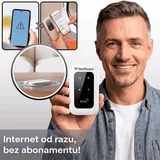
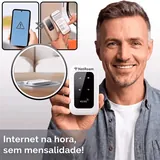
P242 NetRoam BR: localise the hero animation, drop the star strip
The hero burns its caption into all 58 frames. I mirrored it from PL as
"text-free" and the review sheet caught the Polish still sitting on the most
prominent image of the page. Fixed the way the PL build made it: static base
regenerated with "Internet na hora, sem mensalidade!", then the source's own
animated inset composited back through a feathered circular mask at
(137,251) r=85. Measured before compositing -- the caption zone deviates by
>25 levels on 9 of 58,800 px across frames, so it is static; the inset is the
only real motion. sp_hero_thumb rebuilt from frame 0 of the new animation.

sp_hero.webp needed no change: it is a different asset (a fully-moving room
video with a fixed device pair) and carries no text.

Also removed the 5-star strip from the review cards, where it sat beside the
ReclameAQUI wordmark. blocks/reclameaqui_energycut_br.html states the rule:
ReclameAQUI scores 0-10, never stars. A score chip would need a real rating,
which is a business fact we do not have, so the wordmark stands alone. The
hero strip keeps its stars -- it reads "Excelente 4,8" with no ReclameAQUI
mark beside it.

Changed region(s): [[0.25, 0.8438, 0.5312, 0.9688], [0.0, 0.9062, 0.25, 0.9688], [0.3125, 0.5625, 0.3438, 0.5938]]

diff --git a/netroam-br/sp.css b/netroam-br/sp.css
@@ -1358,7 +1358,7 @@ display:block;
 						    max-width: unset;
 						    flex: 1;
       order: 0;
-    }@media only screen and (min-width: 600px) and (max-width: 1024px){:where(#netroam-br-sp-root) .el-758250 .el-929801.container{ display:inherit; }}@media only screen and (min-width: 0px) and (max-width: 600px){:where(#netroam-br-sp-root) .el-758250 .el-929801.container{ display:inherit; }}:where(#netroam-br-sp-root) .el-929801 .el-392528{ display:inherit;margin:3px 0px 0px 0px; }:where(#netroam-br-sp-root) .el-929801 .el-392528{ align-items:flex-start; }@media only screen and (min-width: 600px) and (max-width: 1024px){:where(#netroam-br-sp-root) .el-929801 .el-392528{ display:inherit; }}@media only screen and (min-width: 0px) and (max-width: 600px){:where(#netroam-br-sp-root) .el-929801 .el-392528{ display:inherit; }}:where(#netroam-br-sp-root) .el-929801 .el-392528 img{ box-shadow:none;object-fit:scale-down; }:where(#netroam-br-sp-root) .el-929801 .el-392528 img{ width:22px;height:22px; }:where(#netroam-br-sp-root) .el-929801 .el-362073{ width:100%;display:flex; }@media only screen and (min-width: 600px) and (max-width: 1024px){:where(#netroam-br-sp-root) .el-929801 .el-362073{ width:100%;display:flex; }}@media only screen and (min-width: 0px) and (max-width: 600px){:where(#netroam-br-sp-root) .el-929801 .el-362073{ width:100%;display:flex; }}:where(#netroam-br-sp-root) .el-929801 .el-362073 .paragraph{ display:inherit;font-family:Poppins;font-size:20px;text-align:left;line-height:1.2;margin:0px 0px 0px 0px;padding:0px 0px 5px 0px;text-shadow:transparent 0px 0px 0px ; }@media only screen and (min-width: 600px) and (max-width: 1024px){:where(#netroam-br-sp-root) .el-929801 .el-362073 .paragraph{ display:inherit; }}@media only screen and (min-width: 0px) and (max-width: 600px){:where(#netroam-br-sp-root) .el-929801 .el-362073 .paragraph{ display:inherit; }}:where(#netroam-br-sp-root) .el-758250 .el-649265{ width:100%;display:flex; }@media only screen and (min-width: 600px) and (max-width: 1024px){:where(#netroam-br-sp-root) .el-758250 .el-649265{ width:100%;display:flex; }}@media only screen and (min-width: 0px) and (max-width: 600px){:where(#netroam-br-sp-root) .el-758250 .el-649265{ width:100%;display:flex; }}:where(#netroam-br-sp-root) .el-758250 .el-649265 .paragraph{ display:inherit;color:#B6B6B6;font-family:Poppins;font-size:8px;text-align:left;line-height:1;margin:0px 0px 0px 0px;padding:10px 10px 10px 10px;text-shadow:transparent 0px 0px 0px ; }@media only screen and (min-width: 600px) and (max-width: 1024px){:where(#netroam-br-sp-root) .el-758250 .el-649265 .paragraph{ display:inherit; }}@media only screen and (min-width: 0px) and (max-width: 600px){:where(#netroam-br-sp-root) .el-758250 .el-649265 .paragraph{ display:inherit;text-align:right; }}:where(#netroam-br-sp-root) .el-758250 .el-258122{ display:inherit;margin:0px 0px 0px 0px; }:where(#netroam-br-sp-root) .el-758250 .el-258122{ align-items:center; }@media only screen and (min-width: 600px) and (max-width: 1024px){:where(#netroam-br-sp-root) .el-758250 .el-258122{ display:inherit; }}@media only screen and (min-width: 0px) and (max-width: 600px){:where(#netroam-br-sp-root) .el-758250 .el-258122{ display:inherit; }}:where(#netroam-br-sp-root) .el-758250 .el-258122 img{ box-shadow:none;object-fit:scale-down; }:where(#netroam-br-sp-root) .el-758250 .el-258122 img{ width:100%;height:23px; }:where(#netroam-br-sp-root) .el-758250 .el-898055{ display:inherit;margin:0px 0px 0px 0px; }:where(#netroam-br-sp-root) .el-758250 .el-898055{ align-items:flex-start; }@media only screen and (min-width: 600px) and (max-width: 1024px){:where(#netroam-br-sp-root) .el-758250 .el-898055{ display:inherit; }}@media only screen and (min-width: 0px) and (max-width: 600px){:where(#netroam-br-sp-root) .el-758250 .el-898055{ display:inherit; }}:where(#netroam-br-sp-root) .el-758250 .el-898055 img{ box-shadow:none;object-fit:scale-down; }:where(#netroam-br-sp-root) .el-758250 .el-898055 img{ width:100%;height:15px; }:where(#netroam-br-sp-root) .el-802359 .el-21962{ width:100%;display:flex; }@media only screen and (min-width: 600px) and (max-width: 1024px){:where(#netroam-br-sp-root) .el-802359 .el-21962{ width:100%;display:flex; }}@media only screen and (min-width: 0px) and (max-width: 600px){:where(#netroam-br-sp-root) .el-802359 .el-21962{ width:100%;display:flex; }}:where(#netroam-br-sp-root) .el-802359 .el-21962 .paragraph{ display:inherit;color:#000000;font-family:Poppins;font-size:16px;text-align:left;line-height:1.5;margin:10px 5px 0px 5px;padding:0px 0px 0px 0px;text-shadow:transparent 0px 0px 0px ; }@media only screen and (min-width: 600px) and (max-width: 1024px){:where(#netroam-br-sp-root) .el-802359 .el-21962 .paragraph{ display:inherit; }}@media only screen and (min-width: 0px) and (max-width: 600px){:where(#netroam-br-sp-root) .el-802359 .el-21962 .paragraph{ display:inherit;font-size:14px; }}:where(#netroam-br-sp-root) .el-48256 .el-11605.container{ display:inherit;font-size:18px;text-align:center;font-weight:400;font-style:normal;border-top:0px solid ;border-left:0px solid ;border-right:0px solid ;border-bottom:0px solid ;border-radius:10px 10px 10px 10px;margin:0px 0px 0px 0px;padding:20px 10px 20px 10px;box-shadow:#0000001C 6.123233995736766e-17px 1px 5px 3px ; }:where(#netroam-br-sp-root) .el-48256 .el-11605.container{ align-items:start; }:where(#netroam-br-sp-root) .el-48256 .el-11605.container{ flex-direction: column; }:where(#netroam-br-sp-root) .el-48256 .el-11605.container  > .container-box:nth-child(1){
+    }@media only screen and (min-width: 600px) and (max-width: 1024px){:where(#netroam-br-sp-root) .el-758250 .el-929801.container{ display:inherit; }}@media only screen and (min-width: 0px) and (max-width: 600px){:where(#netroam-br-sp-root) .el-758250 .el-929801.container{ display:inherit; }}:where(#netroam-br-sp-root) .el-929801 .el-392528{ display:inherit;margin:3px 0px 0px 0px; }:where(#netroam-br-sp-root) .el-929801 .el-392528{ align-items:flex-start; }@media only screen and (min-width: 600px) and (max-width: 1024px){:where(#netroam-br-sp-root) .el-929801 .el-392528{ display:inherit; }}@media only screen and (min-width: 0px) and (max-width: 600px){:where(#netroam-br-sp-root) .el-929801 .el-392528{ display:inherit; }}:where(#netroam-br-sp-root) .el-929801 .el-392528 img{ box-shadow:none;object-fit:scale-down; }:where(#netroam-br-sp-root) .el-929801 .el-392528 img{ width:22px;height:22px; }:where(#netroam-br-sp-root) .el-929801 .el-362073{ width:100%;display:flex; }@media only screen and (min-width: 600px) and (max-width: 1024px){:where(#netroam-br-sp-root) .el-929801 .el-362073{ width:100%;display:flex; }}@media only screen and (min-width: 0px) and (max-width: 600px){:where(#netroam-br-sp-root) .el-929801 .el-362073{ width:100%;display:flex; }}:where(#netroam-br-sp-root) .el-929801 .el-362073 .paragraph{ display:inherit;font-family:Poppins;font-size:20px;text-align:left;line-height:1.2;margin:0px 0px 0px 0px;padding:0px 0px 5px 0px;text-shadow:transparent 0px 0px 0px ; }@media only screen and (min-width: 600px) and (max-width: 1024px){:where(#netroam-br-sp-root) .el-929801 .el-362073 .paragraph{ display:inherit; }}@media only screen and (min-width: 0px) and (max-width: 600px){:where(#netroam-br-sp-root) .el-929801 .el-362073 .paragraph{ display:inherit; }}:where(#netroam-br-sp-root) .el-758250 .el-649265{ width:100%;display:flex; }@media only screen and (min-width: 600px) and (max-width: 1024px){:where(#netroam-br-sp-root) .el-758250 .el-649265{ width:100%;display:flex; }}@media only screen and (min-width: 0px) and (max-width: 600px){:where(#netroam-br-sp-root) .el-758250 .el-649265{ width:100%;display:flex; }}:where(#netroam-br-sp-root) .el-758250 .el-649265 .paragraph{ display:inherit;color:#B6B6B6;font-family:Poppins;font-size:8px;text-align:left;line-height:1;margin:0px 0px 0px 0px;padding:10px 10px 10px 10px;text-shadow:transparent 0px 0px 0px ; }@media only screen and (min-width: 600px) and (max-width: 1024px){:where(#netroam-br-sp-root) .el-758250 .el-649265 .paragraph{ display:inherit; }}@media only screen and (min-width: 0px) and (max-width: 600px){:where(#netroam-br-sp-root) .el-758250 .el-649265 .paragraph{ display:inherit;text-align:right; }}:where(#netroam-br-sp-root) .el-758250 .el-258122{ display:inherit;margin:0px 0px 0px 0px; }:where(#netroam-br-sp-root) .el-758250 .el-258122{ align-items:center; }@media only screen and (min-width: 600px) and (max-width: 1024px){:where(#netroam-br-sp-root) .el-758250 .el-258122{ display:inherit; }}@media only screen and (min-width: 0px) and (max-width: 600px){:where(#netroam-br-sp-root) .el-758250 .el-258122{ display:inherit; }}:where(#netroam-br-sp-root) .el-758250 .el-258122 img{ box-shadow:none;object-fit:scale-down; }:where(#netroam-br-sp-root) .el-758250 .el-258122 img{ width:100%;height:23px; }:where(#netroam-br-sp-root) .el-802359 .el-21962{ width:100%;display:flex; }@media only screen and (min-width: 600px) and (max-width: 1024px){:where(#netroam-br-sp-root) .el-802359 .el-21962{ width:100%;display:flex; }}@media only screen and (min-width: 0px) and (max-width: 600px){:where(#netroam-br-sp-root) .el-802359 .el-21962{ width:100%;display:flex; }}:where(#netroam-br-sp-root) .el-802359 .el-21962 .paragraph{ display:inherit;color:#000000;font-family:Poppins;font-size:16px;text-align:left;line-height:1.5;margin:10px 5px 0px 5px;padding:0px 0px 0px 0px;text-shadow:transparent 0px 0px 0px ; }@media only screen and (min-width: 600px) and (max-width: 1024px){:where(#netroam-br-sp-root) .el-802359 .el-21962 .paragraph{ display:inherit; }}@media only screen and (min-width: 0px) and (max-width: 600px){:where(#netroam-br-sp-root) .el-802359 .el-21962 .paragraph{ display:inherit;font-size:14px; }}:where(#netroam-br-sp-root) .el-48256 .el-11605.container{ display:inherit;font-size:18px;text-align:center;font-weight:400;font-style:normal;border-top:0px solid ;border-left:0px solid ;border-right:0px solid ;border-bottom:0px solid ;border-radius:10px 10px 10px 10px;margin:0px 0px 0px 0px;padding:20px 10px 20px 10px;box-shadow:#0000001C 6.123233995736766e-17px 1px 5px 3px ; }:where(#netroam-br-sp-root) .el-48256 .el-11605.container{ align-items:start; }:where(#netroam-br-sp-root) .el-48256 .el-11605.container{ flex-direction: column; }:where(#netroam-br-sp-root) .el-48256 .el-11605.container  > .container-box:nth-child(1){
       width: 100%;
               min-width: 100%;
               max-width: 100%;
@@ -1406,7 +1406,7 @@ display:block;
 						    max-width: unset;
 						    flex: 1;
       order: 0;
-    }@media only screen and (min-width: 600px) and (max-width: 1024px){:where(#netroam-br-sp-root) .el-143072 .el-998820.container{ display:inherit; }}@media only screen and (min-width: 0px) and (max-width: 600px){:where(#netroam-br-sp-root) .el-143072 .el-998820.container{ display:inherit; }}:where(#netroam-br-sp-root) .el-998820 .el-629478{ display:inherit;margin:3px 0px 0px 0px; }:where(#netroam-br-sp-root) .el-998820 .el-629478{ align-items:flex-start; }@media only screen and (min-width: 600px) and (max-width: 1024px){:where(#netroam-br-sp-root) .el-998820 .el-629478{ display:inherit; }}@media only screen and (min-width: 0px) and (max-width: 600px){:where(#netroam-br-sp-root) .el-998820 .el-629478{ display:inherit; }}:where(#netroam-br-sp-root) .el-998820 .el-629478 img{ box-shadow:none;object-fit:scale-down; }:where(#netroam-br-sp-root) .el-998820 .el-629478 img{ width:22px;height:22px; }:where(#netroam-br-sp-root) .el-998820 .el-106640{ width:100%;display:flex; }@media only screen and (min-width: 600px) and (max-width: 1024px){:where(#netroam-br-sp-root) .el-998820 .el-106640{ width:100%;display:flex; }}@media only screen and (min-width: 0px) and (max-width: 600px){:where(#netroam-br-sp-root) .el-998820 .el-106640{ width:100%;display:flex; }}:where(#netroam-br-sp-root) .el-998820 .el-106640 .paragraph{ display:inherit;font-family:Poppins;font-size:20px;text-align:left;line-height:1.2;margin:0px 0px 0px 0px;padding:0px 0px 5px 0px;text-shadow:transparent 0px 0px 0px ; }@media only screen and (min-width: 600px) and (max-width: 1024px){:where(#netroam-br-sp-root) .el-998820 .el-106640 .paragraph{ display:inherit; }}@media only screen and (min-width: 0px) and (max-width: 600px){:where(#netroam-br-sp-root) .el-998820 .el-106640 .paragraph{ display:inherit; }}:where(#netroam-br-sp-root) .el-143072 .el-98258{ width:100%;display:flex; }@media only screen and (min-width: 600px) and (max-width: 1024px){:where(#netroam-br-sp-root) .el-143072 .el-98258{ width:100%;display:flex; }}@media only screen and (min-width: 0px) and (max-width: 600px){:where(#netroam-br-sp-root) .el-143072 .el-98258{ width:100%;display:flex; }}:where(#netroam-br-sp-root) .el-143072 .el-98258 .paragraph{ display:inherit;color:#B6B6B6;font-family:Poppins;font-size:8px;text-align:left;line-height:1;margin:0px 0px 0px 0px;padding:10px 10px 10px 10px;text-shadow:transparent 0px 0px 0px ; }@media only screen and (min-width: 600px) and (max-width: 1024px){:where(#netroam-br-sp-root) .el-143072 .el-98258 .paragraph{ display:inherit; }}@media only screen and (min-width: 0px) and (max-width: 600px){:where(#netroam-br-sp-root) .el-143072 .el-98258 .paragraph{ display:inherit;text-align:right; }}:where(#netroam-br-sp-root) .el-143072 .el-83756{ display:inherit;margin:0px 0px 0px 0px; }:where(#netroam-br-sp-root) .el-143072 .el-83756{ align-items:center; }@media only screen and (min-width: 600px) and (max-width: 1024px){:where(#netroam-br-sp-root) .el-143072 .el-83756{ display:inherit; }}@media only screen and (min-width: 0px) and (max-width: 600px){:where(#netroam-br-sp-root) .el-143072 .el-83756{ display:inherit; }}:where(#netroam-br-sp-root) .el-143072 .el-83756 img{ box-shadow:none;object-fit:scale-down; }:where(#netroam-br-sp-root) .el-143072 .el-83756 img{ width:100%;height:23px; }:where(#netroam-br-sp-root) .el-143072 .el-470500{ display:inherit;margin:0px 0px 0px 0px; }:where(#netroam-br-sp-root) .el-143072 .el-470500{ align-items:flex-start; }@media only screen and (min-width: 600px) and (max-width: 1024px){:where(#netroam-br-sp-root) .el-143072 .el-470500{ display:inherit; }}@media only screen and (min-width: 0px) and (max-width: 600px){:where(#netroam-br-sp-root) .el-143072 .el-470500{ display:inherit; }}:where(#netroam-br-sp-root) .el-143072 .el-470500 img{ box-shadow:none;object-fit:scale-down; }:where(#netroam-br-sp-root) .el-143072 .el-470500 img{ width:100%;height:15px; }:where(#netroam-br-sp-root) .el-11605 .el-142555{ width:100%;display:flex; }@media only screen and (min-width: 600px) and (max-width: 1024px){:where(#netroam-br-sp-root) .el-11605 .el-142555{ width:100%;display:flex; }}@media only screen and (min-width: 0px) and (max-width: 600px){:where(#netroam-br-sp-root) .el-11605 .el-142555{ width:100%;display:flex; }}:where(#netroam-br-sp-root) .el-11605 .el-142555 .paragraph{ display:inherit;color:#000000;font-family:Poppins;font-size:16px;text-align:left;line-height:1.5;margin:10px 5px 0px 5px;padding:0px 0px 0px 0px;text-shadow:transparent 0px 0px 0px ; }@media only screen and (min-width: 600px) and (max-width: 1024px){:where(#netroam-br-sp-root) .el-11605 .el-142555 .paragraph{ display:inherit; }}@media only screen and (min-width: 0px) and (max-width: 600px){:where(#netroam-br-sp-root) .el-11605 .el-142555 .paragraph{ display:inherit;font-size:14px; }}:where(#netroam-br-sp-root) .el-48256 .el-954135.container{ display:inherit;font-size:18px;text-align:center;font-weight:400;font-style:normal;border-top:0px solid ;border-left:0px solid ;border-right:0px solid ;border-bottom:0px solid ;border-radius:10px 10px 10px 10px;margin:0px 0px 0px 0px;padding:20px 10px 20px 10px;background-color:#00000000;box-shadow:#0000001C 6.123233995736766e-17px 1px 5px 3px ; }:where(#netroam-br-sp-root) .el-48256 .el-954135.container{ align-items:start; }:where(#netroam-br-sp-root) .el-48256 .el-954135.container{ flex-direction: column; }:where(#netroam-br-sp-root) .el-48256 .el-954135.container  > .container-box:nth-child(1){
+    }@media only screen and (min-width: 600px) and (max-width: 1024px){:where(#netroam-br-sp-root) .el-143072 .el-998820.container{ display:inherit; }}@media only screen and (min-width: 0px) and (max-width: 600px){:where(#netroam-br-sp-root) .el-143072 .el-998820.container{ display:inherit; }}:where(#netroam-br-sp-root) .el-998820 .el-629478{ display:inherit;margin:3px 0px 0px 0px; }:where(#netroam-br-sp-root) .el-998820 .el-629478{ align-items:flex-start; }@media only screen and (min-width: 600px) and (max-width: 1024px){:where(#netroam-br-sp-root) .el-998820 .el-629478{ display:inherit; }}@media only screen and (min-width: 0px) and (max-width: 600px){:where(#netroam-br-sp-root) .el-998820 .el-629478{ display:inherit; }}:where(#netroam-br-sp-root) .el-998820 .el-629478 img{ box-shadow:none;object-fit:scale-down; }:where(#netroam-br-sp-root) .el-998820 .el-629478 img{ width:22px;height:22px; }:where(#netroam-br-sp-root) .el-998820 .el-106640{ width:100%;display:flex; }@media only screen and (min-width: 600px) and (max-width: 1024px){:where(#netroam-br-sp-root) .el-998820 .el-106640{ width:100%;display:flex; }}@media only screen and (min-width: 0px) and (max-width: 600px){:where(#netroam-br-sp-root) .el-998820 .el-106640{ width:100%;display:flex; }}:where(#netroam-br-sp-root) .el-998820 .el-106640 .paragraph{ display:inherit;font-family:Poppins;font-size:20px;text-align:left;line-height:1.2;margin:0px 0px 0px 0px;padding:0px 0px 5px 0px;text-shadow:transparent 0px 0px 0px ; }@media only screen and (min-width: 600px) and (max-width: 1024px){:where(#netroam-br-sp-root) .el-998820 .el-106640 .paragraph{ display:inherit; }}@media only screen and (min-width: 0px) and (max-width: 600px){:where(#netroam-br-sp-root) .el-998820 .el-106640 .paragraph{ display:inherit; }}:where(#netroam-br-sp-root) .el-143072 .el-98258{ width:100%;display:flex; }@media only screen and (min-width: 600px) and (max-width: 1024px){:where(#netroam-br-sp-root) .el-143072 .el-98258{ width:100%;display:flex; }}@media only screen and (min-width: 0px) and (max-width: 600px){:where(#netroam-br-sp-root) .el-143072 .el-98258{ width:100%;display:flex; }}:where(#netroam-br-sp-root) .el-143072 .el-98258 .paragraph{ display:inherit;color:#B6B6B6;font-family:Poppins;font-size:8px;text-align:left;line-height:1;margin:0px 0px 0px 0px;padding:10px 10px 10px 10px;text-shadow:transparent 0px 0px 0px ; }@media only screen and (min-width: 600px) and (max-width: 1024px){:where(#netroam-br-sp-root) .el-143072 .el-98258 .paragraph{ display:inherit; }}@media only screen and (min-width: 0px) and (max-width: 600px){:where(#netroam-br-sp-root) .el-143072 .el-98258 .paragraph{ display:inherit;text-align:right; }}:where(#netroam-br-sp-root) .el-143072 .el-83756{ display:inherit;margin:0px 0px 0px 0px; }:where(#netroam-br-sp-root) .el-143072 .el-83756{ align-items:center; }@media only screen and (min-width: 600px) and (max-width: 1024px){:where(#netroam-br-sp-root) .el-143072 .el-83756{ display:inherit; }}@media only screen and (min-width: 0px) and (max-width: 600px){:where(#netroam-br-sp-root) .el-143072 .el-83756{ display:inherit; }}:where(#netroam-br-sp-root) .el-143072 .el-83756 img{ box-shadow:none;object-fit:scale-down; }:where(#netroam-br-sp-root) .el-143072 .el-83756 img{ width:100%;height:23px; }:where(#netroam-br-sp-root) .el-11605 .el-142555{ width:100%;display:flex; }@media only screen and (min-width: 600px) and (max-width: 1024px){:where(#netroam-br-sp-root) .el-11605 .el-142555{ width:100%;display:flex; }}@media only screen and (min-width: 0px) and (max-width: 600px){:where(#netroam-br-sp-root) .el-11605 .el-142555{ width:100%;display:flex; }}:where(#netroam-br-sp-root) .el-11605 .el-142555 .paragraph{ display:inherit;color:#000000;font-family:Poppins;font-size:16px;text-align:left;line-height:1.5;margin:10px 5px 0px 5px;padding:0px 0px 0px 0px;text-shadow:transparent 0px 0px 0px ; }@media only screen and (min-width: 600px) and (max-width: 1024px){:where(#netroam-br-sp-root) .el-11605 .el-142555 .paragraph{ display:inherit; }}@media only screen and (min-width: 0px) and (max-width: 600px){:where(#netroam-br-sp-root) .el-11605 .el-142555 .paragraph{ display:inherit;font-size:14px; }}:where(#netroam-br-sp-root) .el-48256 .el-954135.container{ display:inherit;font-size:18px;text-align:center;font-weight:400;font-style:normal;border-top:0px solid ;border-left:0px solid ;border-right:0px solid ;border-bottom:0px solid ;border-radius:10px 10px 10px 10px;margin:0px 0px 0px 0px;padding:20px 10px 20px 10px;background-color:#00000000;box-shadow:#0000001C 6.123233995736766e-17px 1px 5px 3px ; }:where(#netroam-br-sp-root) .el-48256 .el-954135.container{ align-items:start; }:where(#netroam-br-sp-root) .el-48256 .el-954135.container{ flex-direction: column; }:where(#netroam-br-sp-root) .el-48256 .el-954135.container  > .container-box:nth-child(1){
       width: 100%;
               min-width: 100%;
               max-width: 100%;
@@ -1454,7 +1454,7 @@ display:block;
 						    max-width: unset;
 						    flex: 1;
       order: 0;
-    }@media only screen and (min-width: 600px) and (max-width: 1024px){:where(#netroam-br-sp-root) .el-17661 .el-375182.container{ display:inherit; }}@media only screen and (min-width: 0px) and (max-width: 600px){:where(#netroam-br-sp-root) .el-17661 .el-375182.container{ display:inherit; }}:where(#netroam-br-sp-root) .el-375182 .el-921294{ display:inherit;margin:3px 0px 0px 0px; }:where(#netroam-br-sp-root) .el-375182 .el-921294{ align-items:flex-start; }@media only screen and (min-width: 600px) and (max-width: 1024px){:where(#netroam-br-sp-root) .el-375182 .el-921294{ display:inherit; }}@media only screen and (min-width: 0px) and (max-width: 600px){:where(#netroam-br-sp-root) .el-375182 .el-921294{ display:inherit; }}:where(#netroam-br-sp-root) .el-375182 .el-921294 img{ box-shadow:none;object-fit:scale-down; }:where(#netroam-br-sp-root) .el-375182 .el-921294 img{ width:22px;height:22px; }:where(#netroam-br-sp-root) .el-375182 .el-297177{ width:100%;display:flex; }@media only screen and (min-width: 600px) and (max-width: 1024px){:where(#netroam-br-sp-root) .el-375182 .el-297177{ width:100%;display:flex; }}@media only screen and (min-width: 0px) and (max-width: 600px){:where(#netroam-br-sp-root) .el-375182 .el-297177{ width:100%;display:flex; }}:where(#netroam-br-sp-root) .el-375182 .el-297177 .paragraph{ display:inherit;font-family:Poppins;font-size:20px;text-align:left;line-height:1.2;margin:0px 0px 0px 0px;padding:0px 0px 5px 0px;text-shadow:transparent 0px 0px 0px ; }@media only screen and (min-width: 600px) and (max-width: 1024px){:where(#netroam-br-sp-root) .el-375182 .el-297177 .paragraph{ display:inherit; }}@media only screen and (min-width: 0px) and (max-width: 600px){:where(#netroam-br-sp-root) .el-375182 .el-297177 .paragraph{ display:inherit; }}:where(#netroam-br-sp-root) .el-17661 .el-191274{ width:100%;display:flex; }@media only screen and (min-width: 600px) and (max-width: 1024px){:where(#netroam-br-sp-root) .el-17661 .el-191274{ width:100%;display:flex; }}@media only screen and (min-width: 0px) and (max-width: 600px){:where(#netroam-br-sp-root) .el-17661 .el-191274{ width:100%;display:flex; }}:where(#netroam-br-sp-root) .el-17661 .el-191274 .paragraph{ display:inherit;color:#B6B6B6;font-family:Poppins;font-size:8px;text-align:left;line-height:1;margin:0px 0px 0px 0px;padding:10px 10px 10px 10px;text-shadow:transparent 0px 0px 0px ; }@media only screen and (min-width: 600px) and (max-width: 1024px){:where(#netroam-br-sp-root) .el-17661 .el-191274 .paragraph{ display:inherit; }}@media only screen and (min-width: 0px) and (max-width: 600px){:where(#netroam-br-sp-root) .el-17661 .el-191274 .paragraph{ display:inherit;text-align:right; }}:where(#netroam-br-sp-root) .el-17661 .el-359893{ display:inherit;margin:0px 0px 0px 0px; }:where(#netroam-br-sp-root) .el-17661 .el-359893{ align-items:center; }@media only screen and (min-width: 600px) and (max-width: 1024px){:where(#netroam-br-sp-root) .el-17661 .el-359893{ display:inherit; }}@media only screen and (min-width: 0px) and (max-width: 600px){:where(#netroam-br-sp-root) .el-17661 .el-359893{ display:inherit; }}:where(#netroam-br-sp-root) .el-17661 .el-359893 img{ box-shadow:none;object-fit:scale-down; }:where(#netroam-br-sp-root) .el-17661 .el-359893 img{ width:100%;height:23px; }:where(#netroam-br-sp-root) .el-17661 .el-113027{ display:inherit;margin:0px 0px 0px 0px; }:where(#netroam-br-sp-root) .el-17661 .el-113027{ align-items:flex-start; }@media only screen and (min-width: 600px) and (max-width: 1024px){:where(#netroam-br-sp-root) .el-17661 .el-113027{ display:inherit; }}@media only screen and (min-width: 0px) and (max-width: 600px){:where(#netroam-br-sp-root) .el-17661 .el-113027{ display:inherit; }}:where(#netroam-br-sp-root) .el-17661 .el-113027 img{ box-shadow:none;object-fit:scale-down; }:where(#netroam-br-sp-root) .el-17661 .el-113027 img{ width:100%;height:15px; }:where(#netroam-br-sp-root) .el-954135 .el-283999{ width:100%;display:flex; }@media only screen and (min-width: 600px) and (max-width: 1024px){:where(#netroam-br-sp-root) .el-954135 .el-283999{ width:100%;display:flex; }}@media only screen and (min-width: 0px) and (max-width: 600px){:where(#netroam-br-sp-root) .el-954135 .el-283999{ width:100%;display:flex; }}:where(#netroam-br-sp-root) .el-954135 .el-283999 .paragraph{ display:inherit;color:#000000;font-family:Poppins;font-size:16px;text-align:left;line-height:1.5;margin:10px 5px 0px 5px;padding:0px 0px 0px 0px;text-shadow:transparent 0px 0px 0px ; }@media only screen and (min-width: 600px) and (max-width: 1024px){:where(#netroam-br-sp-root) .el-954135 .el-283999 .paragraph{ display:inherit; }}@media only screen and (min-width: 0px) and (max-width: 600px){:where(#netroam-br-sp-root) .el-954135 .el-283999 .paragraph{ display:inherit;font-size:14px; }}:where(#netroam-br-sp-root) .section_wrapper_94352 .section_row{ max-width:1170px; }:where(#netroam-br-sp-root) .section_wrapper_94352{ width:100%; }@media only screen and (min-width: 600px) and (max-width: 1024px){:where(#netroam-br-sp-root) .section_wrapper_94352{ width:100%; }}@media only screen and (min-width: 0px) and (max-width: 600px){:where(#netroam-br-sp-root) .section_wrapper_94352{ width:100%; }}@media only screen and (min-width: 600px) and (max-width: 1024px){:where(#netroam-br-sp-root) .section_wrapper_94352 .section_row{ max-width:1170px; }}@media only screen and (min-width: 0px) and (max-width: 600px){:where(#netroam-br-sp-root) .section_wrapper_94352 .section_row{ max-width:1170px; }}:where(#netroam-br-sp-root) .el-94352{ display:inherit; }@media only screen and (min-width: 600px) and (max-width: 1024px){:where(#netroam-br-sp-root) .el-94352{ display:inherit; }}@media only screen and (min-width: 0px) and (max-width: 600px){:where(#netroam-br-sp-root) .el-94352{ display:inherit; }}:where(#netroam-br-sp-root) .el-94352 .el-892764.section_row{ width:calc(100% - 0px); }@media only screen and (min-width: 600px) and (max-width: 1024px){:where(#netroam-br-sp-root) .el-94352 .el-892764.section_row{ width:calc(100% - 0px); }}@media only screen and (min-width: 0px) and (max-width: 600px){:where(#netroam-br-sp-root) .el-94352 .el-892764.section_row{ width:calc(100% - 0px); }}:where(#netroam-br-sp-root) .el-94352 .el-892764.section_row{ display:inherit;color:#303030;font-size:14px;text-align:initial;font-weight:400;font-style:normal;border-top:0px solid transparent;border-left:0px solid transparent;border-right:0px solid transparent;border-bottom:0px solid transparent;border-radius:0px 0px 0px 0px;border-color:transparent;margin:0px 0px 0px 0px;padding:0px 0px 10px 0px;background-color:#FFFFFF;background-repeat:no-repeat;box-shadow:none; }@media only screen and (min-width: 600px) and (max-width: 1024px){:where(#netroam-br-sp-root) .el-94352 .el-892764.section_row{ display:inherit; }}@media only screen and (min-width: 0px) and (max-width: 600px){:where(#netroam-br-sp-root) .el-94352 .el-892764.section_row{ display:inherit; }}:where(#netroam-br-sp-root) .el-892764 .el-354068.container{ display:inherit;font-size:18px;text-align:center;font-weight:400;font-style:normal;margin:0px 0px 0px 0px;padding:30px 0px 30px 0px;background-color:#0000;background-repeat:no-repeat;background-position:center top;background-size:100% auto;box-shadow:none;gap:0px; }:where(#netroam-br-sp-root) .el-892764 .el-354068.container{ align-items:center; }:where(#netroam-br-sp-root) .el-892764 .el-354068.container{ flex-direction: row; }:where(#netroam-br-sp-root) .el-892764 .el-354068.container  > .container-box:nth-child(1){
+    }@media only screen and (min-width: 600px) and (max-width: 1024px){:where(#netroam-br-sp-root) .el-17661 .el-375182.container{ display:inherit; }}@media only screen and (min-width: 0px) and (max-width: 600px){:where(#netroam-br-sp-root) .el-17661 .el-375182.container{ display:inherit; }}:where(#netroam-br-sp-root) .el-375182 .el-921294{ display:inherit;margin:3px 0px 0px 0px; }:where(#netroam-br-sp-root) .el-375182 .el-921294{ align-items:flex-start; }@media only screen and (min-width: 600px) and (max-width: 1024px){:where(#netroam-br-sp-root) .el-375182 .el-921294{ display:inherit; }}@media only screen and (min-width: 0px) and (max-width: 600px){:where(#netroam-br-sp-root) .el-375182 .el-921294{ display:inherit; }}:where(#netroam-br-sp-root) .el-375182 .el-921294 img{ box-shadow:none;object-fit:scale-down; }:where(#netroam-br-sp-root) .el-375182 .el-921294 img{ width:22px;height:22px; }:where(#netroam-br-sp-root) .el-375182 .el-297177{ width:100%;display:flex; }@media only screen and (min-width: 600px) and (max-width: 1024px){:where(#netroam-br-sp-root) .el-375182 .el-297177{ width:100%;display:flex; }}@media only screen and (min-width: 0px) and (max-width: 600px){:where(#netroam-br-sp-root) .el-375182 .el-297177{ width:100%;display:flex; }}:where(#netroam-br-sp-root) .el-375182 .el-297177 .paragraph{ display:inherit;font-family:Poppins;font-size:20px;text-align:left;line-height:1.2;margin:0px 0px 0px 0px;padding:0px 0px 5px 0px;text-shadow:transparent 0px 0px 0px ; }@media only screen and (min-width: 600px) and (max-width: 1024px){:where(#netroam-br-sp-root) .el-375182 .el-297177 .paragraph{ display:inherit; }}@media only screen and (min-width: 0px) and (max-width: 600px){:where(#netroam-br-sp-root) .el-375182 .el-297177 .paragraph{ display:inherit; }}:where(#netroam-br-sp-root) .el-17661 .el-191274{ width:100%;display:flex; }@media only screen and (min-width: 600px) and (max-width: 1024px){:where(#netroam-br-sp-root) .el-17661 .el-191274{ width:100%;display:flex; }}@media only screen and (min-width: 0px) and (max-width: 600px){:where(#netroam-br-sp-root) .el-17661 .el-191274{ width:100%;display:flex; }}:where(#netroam-br-sp-root) .el-17661 .el-191274 .paragraph{ display:inherit;color:#B6B6B6;font-family:Poppins;font-size:8px;text-align:left;line-height:1;margin:0px 0px 0px 0px;padding:10px 10px 10px 10px;text-shadow:transparent 0px 0px 0px ; }@media only screen and (min-width: 600px) and (max-width: 1024px){:where(#netroam-br-sp-root) .el-17661 .el-191274 .paragraph{ display:inherit; }}@media only screen and (min-width: 0px) and (max-width: 600px){:where(#netroam-br-sp-root) .el-17661 .el-191274 .paragraph{ display:inherit;text-align:right; }}:where(#netroam-br-sp-root) .el-17661 .el-359893{ display:inherit;margin:0px 0px 0px 0px; }:where(#netroam-br-sp-root) .el-17661 .el-359893{ align-items:center; }@media only screen and (min-width: 600px) and (max-width: 1024px){:where(#netroam-br-sp-root) .el-17661 .el-359893{ display:inherit; }}@media only screen and (min-width: 0px) and (max-width: 600px){:where(#netroam-br-sp-root) .el-17661 .el-359893{ display:inherit; }}:where(#netroam-br-sp-root) .el-17661 .el-359893 img{ box-shadow:none;object-fit:scale-down; }:where(#netroam-br-sp-root) .el-17661 .el-359893 img{ width:100%;height:23px; }:where(#netroam-br-sp-root) .el-954135 .el-283999{ width:100%;display:flex; }@media only screen and (min-width: 600px) and (max-width: 1024px){:where(#netroam-br-sp-root) .el-954135 .el-283999{ width:100%;display:flex; }}@media only screen and (min-width: 0px) and (max-width: 600px){:where(#netroam-br-sp-root) .el-954135 .el-283999{ width:100%;display:flex; }}:where(#netroam-br-sp-root) .el-954135 .el-283999 .paragraph{ display:inherit;color:#000000;font-family:Poppins;font-size:16px;text-align:left;line-height:1.5;margin:10px 5px 0px 5px;padding:0px 0px 0px 0px;text-shadow:transparent 0px 0px 0px ; }@media only screen and (min-width: 600px) and (max-width: 1024px){:where(#netroam-br-sp-root) .el-954135 .el-283999 .paragraph{ display:inherit; }}@media only screen and (min-width: 0px) and (max-width: 600px){:where(#netroam-br-sp-root) .el-954135 .el-283999 .paragraph{ display:inherit;font-size:14px; }}:where(#netroam-br-sp-root) .section_wrapper_94352 .section_row{ max-width:1170px; }:where(#netroam-br-sp-root) .section_wrapper_94352{ width:100%; }@media only screen and (min-width: 600px) and (max-width: 1024px){:where(#netroam-br-sp-root) .section_wrapper_94352{ width:100%; }}@media only screen and (min-width: 0px) and (max-width: 600px){:where(#netroam-br-sp-root) .section_wrapper_94352{ width:100%; }}@media only screen and (min-width: 600px) and (max-width: 1024px){:where(#netroam-br-sp-root) .section_wrapper_94352 .section_row{ max-width:1170px; }}@media only screen and (min-width: 0px) and (max-width: 600px){:where(#netroam-br-sp-root) .section_wrapper_94352 .section_row{ max-width:1170px; }}:where(#netroam-br-sp-root) .el-94352{ display:inherit; }@media only screen and (min-width: 600px) and (max-width: 1024px){:where(#netroam-br-sp-root) .el-94352{ display:inherit; }}@media only screen and (min-width: 0px) and (max-width: 600px){:where(#netroam-br-sp-root) .el-94352{ display:inherit; }}:where(#netroam-br-sp-root) .el-94352 .el-892764.section_row{ width:calc(100% - 0px); }@media only screen and (min-width: 600px) and (max-width: 1024px){:where(#netroam-br-sp-root) .el-94352 .el-892764.section_row{ width:calc(100% - 0px); }}@media only screen and (min-width: 0px) and (max-width: 600px){:where(#netroam-br-sp-root) .el-94352 .el-892764.section_row{ width:calc(100% - 0px); }}:where(#netroam-br-sp-root) .el-94352 .el-892764.section_row{ display:inherit;color:#303030;font-size:14px;text-align:initial;font-weight:400;font-style:normal;border-top:0px solid transparent;border-left:0px solid transparent;border-right:0px solid transparent;border-bottom:0px solid transparent;border-radius:0px 0px 0px 0px;border-color:transparent;margin:0px 0px 0px 0px;padding:0px 0px 10px 0px;background-color:#FFFFFF;background-repeat:no-repeat;box-shadow:none; }@media only screen and (min-width: 600px) and (max-width: 1024px){:where(#netroam-br-sp-root) .el-94352 .el-892764.section_row{ display:inherit; }}@media only screen and (min-width: 0px) and (max-width: 600px){:where(#netroam-br-sp-root) .el-94352 .el-892764.section_row{ display:inherit; }}:where(#netroam-br-sp-root) .el-892764 .el-354068.container{ display:inherit;font-size:18px;text-align:center;font-weight:400;font-style:normal;margin:0px 0px 0px 0px;padding:30px 0px 30px 0px;background-color:#0000;background-repeat:no-repeat;background-position:center top;background-size:100% auto;box-shadow:none;gap:0px; }:where(#netroam-br-sp-root) .el-892764 .el-354068.container{ align-items:center; }:where(#netroam-br-sp-root) .el-892764 .el-354068.container{ flex-direction: row; }:where(#netroam-br-sp-root) .el-892764 .el-354068.container  > .container-box:nth-child(1){
       width: unset;
 						    min-width: 0;
 						    max-width: unset;
@@ -1635,125 +1635,3 @@ display:block;
 						    flex: 1;
       order: 0;
     }}:where(#netroam-br-sp-root) .el-123910 .el-395557 .btn{ display:inherit;color:#F6F9FE;font-size:17px;text-align:center;font-weight:400;font-style:normal;border-top:0px solid ;border-left:0px solid ;border-right:0px solid ;border-bottom:0px solid ;border-radius:5px 5px 5px 5px;margin:0px 0px 0px 0px;padding:8px 25px 8px 25px;background-color:#FFFFFF;box-shadow:none; }:where(#netroam-br-sp-root) .el-123910 .el-395557{ align-items:center; }@media only screen and (min-width: 600px) and (max-width: 1024px){:where(#netroam-br-sp-root) .el-123910 .el-395557 .btn{ display:inherit; }}@media only screen and (min-width: 0px) and (max-width: 600px){:where(#netroam-br-sp-root) .el-123910 .el-395557 .btn{ display:inherit; }:where(#netroam-br-sp-root) .el-123910 .el-395557{ align-items:center; }}:where(#netroam-br-sp-root) .el-123910 .el-395557 .btn-sub-headline{ color:#F6F9FE;font-size:17px;text-align:center;font-weight:400;font-style:normal;margin-top:10px; }:where(#netroam-br-sp-root) .el-123910 .el-395557 .btn-headline{ color:#878787;font-family:Poppins;font-size:21px;text-align:center;font-weight:bold;font-style:normal; }
-/* ---- component css (appended by assemble_sp_block_pl.py) ---- */
-
-/* marquee_asseen_br.html */
-#netroam-br-sp-root .ecm-wrap{
-    /* UWAGA: te dwie wartosci dzialaja na siebie. Czas dotyczy przejechania
-       jednej grupy, wiec wieksze logo = szersza grupa = wiecej pikseli w tym
-       samym czasie. Powiekszenie logotypu samo w sobie przyspiesza pasek. */
-    --ecm-speed: 16s;        /* mniej = szybciej */
-    --ecm-gap: 70px;         /* odstep miedzy logotypami */
-    --ecm-h: 46px;           /* wysokosc logotypu */
-    font-family: inherit;
-    position: relative;
-    width: 100%;
-    padding: 18px 0;
-    background: #fff;
-    overflow: hidden;
-  }#netroam-br-sp-root .ecm-title{
-    text-align: center;
-    margin: 0 0 15px;
-    font-size: 15px;
-    font-weight: 700;
-    letter-spacing: .07em;
-    text-transform: uppercase;
-    color: #6B7580;
-  }#netroam-br-sp-root /* wygaszenie krawedzi -- logotypy wjezdzaja i znikaja zamiast urywac sie
-     na ostrej krawedzi kontenera */
-  .ecm-viewport{
-    -webkit-mask-image: linear-gradient(to right, transparent, #000 8%, #000 92%, transparent);
-            mask-image: linear-gradient(to right, transparent, #000 8%, #000 92%, transparent);
-  }#netroam-br-sp-root .ecm-track{
-    display: flex;
-    width: max-content;
-    animation: ecm-scroll var(--ecm-speed) linear infinite;
-  }#netroam-br-sp-root /* przesuwamy o polowe szerokosci sciezki -- w tym momencie grupa 2 stoi
-     dokladnie tam,#netroam-br-sp-root gdzie startowala grupa 1,#netroam-br-sp-root wiec skok jest niewidoczny */
-  @keyframes ecm-scroll{
-    from{ transform: translate3d(0,0,0); }
-    to  { transform: translate3d(-50%,0,0); }
-  }#netroam-br-sp-root .ecm-set{
-    display: flex;
-    align-items: center;
-    gap: var(--ecm-gap);
-    padding-right: var(--ecm-gap);
-    flex: 0 0 auto;
-  }#netroam-br-sp-root .ecm-set a{
-    display: block;
-    line-height: 0;
-    text-decoration: none;
-  }#netroam-br-sp-root .ecm-set img{
-    height: var(--ecm-h);
-    width: auto;
-    /* hojny limit: szerokie winiety prasowe ("Gazeta Wyborcza") maja przy tej
-       wysokosci ok. 230 px. Ciasniejszy max-width obcialby im wysokosc i
-       zrownal je optycznie z waskimi znakami -- ten sam blad, co kwadratowy
-       kadr 160x160 w oryginalnych adresach obrazkow. */
-    max-width: 260px;
-    object-fit: contain;
-    display: block;
-  }
-
-  @media (max-width: 480px){#netroam-br-sp-root .ecm-wrap{ --ecm-gap: 44px; --ecm-h: 34px; padding: 15px 0; }#netroam-br-sp-root .ecm-title{ font-size: 13px; margin-bottom: 12px; }#netroam-br-sp-root .ecm-set img{ max-width: 200px; }
-  }
-
-  @media (prefers-reduced-motion: reduce){#netroam-br-sp-root .ecm-track{ animation: none; justify-content: center; width: 100%; }#netroam-br-sp-root .ecm-set:nth-child(2){ display: none; }#netroam-br-sp-root .ecm-set{ flex-wrap: wrap; justify-content: center; }#netroam-br-sp-root .ecm-viewport{ -webkit-mask-image: none; mask-image: none; }
-  }
-
-/* table_netroam_br.html */
-#netroam-br-sp-root .nrt-wrap{
-    font-family:'Inter',-apple-system,BlinkMacSystemFont,'Segoe UI',Arial,sans-serif;
-    max-width:820px;
-    margin:0 auto;
-    padding:0 4px;
-    color:#15191c;
-    /* o host Funnelish centraliza o texto -- a tabela precisa sobrescrever
-       isso, senao os rotulos das linhas fogem para o centro (FUNNEL_BUILD 8.3b) */
-    text-align:left;
-  }#netroam-br-sp-root .nrt-table{
-    width:100%;
-    border-collapse:separate;
-    border-spacing:0;
-    table-layout:fixed;
-  }#netroam-br-sp-root .nrt-table th,#netroam-br-sp-root .nrt-table td{ text-align:left; vertical-align:middle; }#netroam-br-sp-root /* colunas: rotulo flexivel,#netroam-br-sp-root duas colunas de sinais com largura fixa */
-  .nrt-col-label{ width:auto; }#netroam-br-sp-root .nrt-col-us,#netroam-br-sp-root .nrt-col-them{ width:22%; }#netroam-br-sp-root .nrt-head th{
-    padding:0 0 10px;
-    font-size:15px;
-    font-weight:800;
-    text-align:center;
-    border:0;
-  }#netroam-br-sp-root .nrt-head .nrt-th-label{ border:0; }#netroam-br-sp-root .nrt-head img{
-    display:block;
-    margin:0 auto 2px;
-    height:56px;
-    width:auto;
-    max-width:100%;
-    object-fit:contain;
-  }#netroam-br-sp-root .nrt-row td{
-    padding:15px 10px;
-    font-size:15px;
-    line-height:1.35;
-    border-top:1px solid #e8ebef;
-    background:#fff;
-  }#netroam-br-sp-root .nrt-row:first-child td{ border-top:1px solid #e8ebef; }#netroam-br-sp-root .nrt-label{
-    font-weight:500;
-    padding-left:14px !important;
-    text-align:left;
-  }#netroam-br-sp-root .nrt-mark{ text-align:center; }#netroam-br-sp-root .nrt-mark svg{ display:inline-block; vertical-align:middle; }#netroam-br-sp-root /* coluna do produto -- fundo leve e borda,#netroam-br-sp-root como no original */
-  .nrt-row .nrt-us{
-    background:#fbfcfd;
-    box-shadow:inset 1px 0 0 #e8ebef, inset -1px 0 0 #e8ebef;
-  }#netroam-br-sp-root .nrt-head .nrt-th-us{
-    background:#fbfcfd;
-    border-radius:12px 12px 0 0;
-    box-shadow:inset 1px 0 0 #e8ebef, inset -1px 0 0 #e8ebef, inset 0 1px 0 #e8ebef;
-    padding-top:12px;
-  }#netroam-br-sp-root .nrt-row:last-child .nrt-us{
-    border-radius:0 0 12px 12px;
-    box-shadow:inset 1px 0 0 #e8ebef, inset -1px 0 0 #e8ebef, inset 0 -1px 0 #e8ebef;
-  }
-
-  @media (max-width:480px){#netroam-br-sp-root .nrt-row td{ padding:12px 6px; font-size:13.5px; }#netroam-br-sp-root .nrt-label{ padding-left:8px !important; }#netroam-br-sp-root .nrt-head th{ font-size:13px; }#netroam-br-sp-root .nrt-head img{ height:44px; }#netroam-br-sp-root .nrt-col-us,#netroam-br-sp-root .nrt-col-them{ width:26%; }
-  }
-
